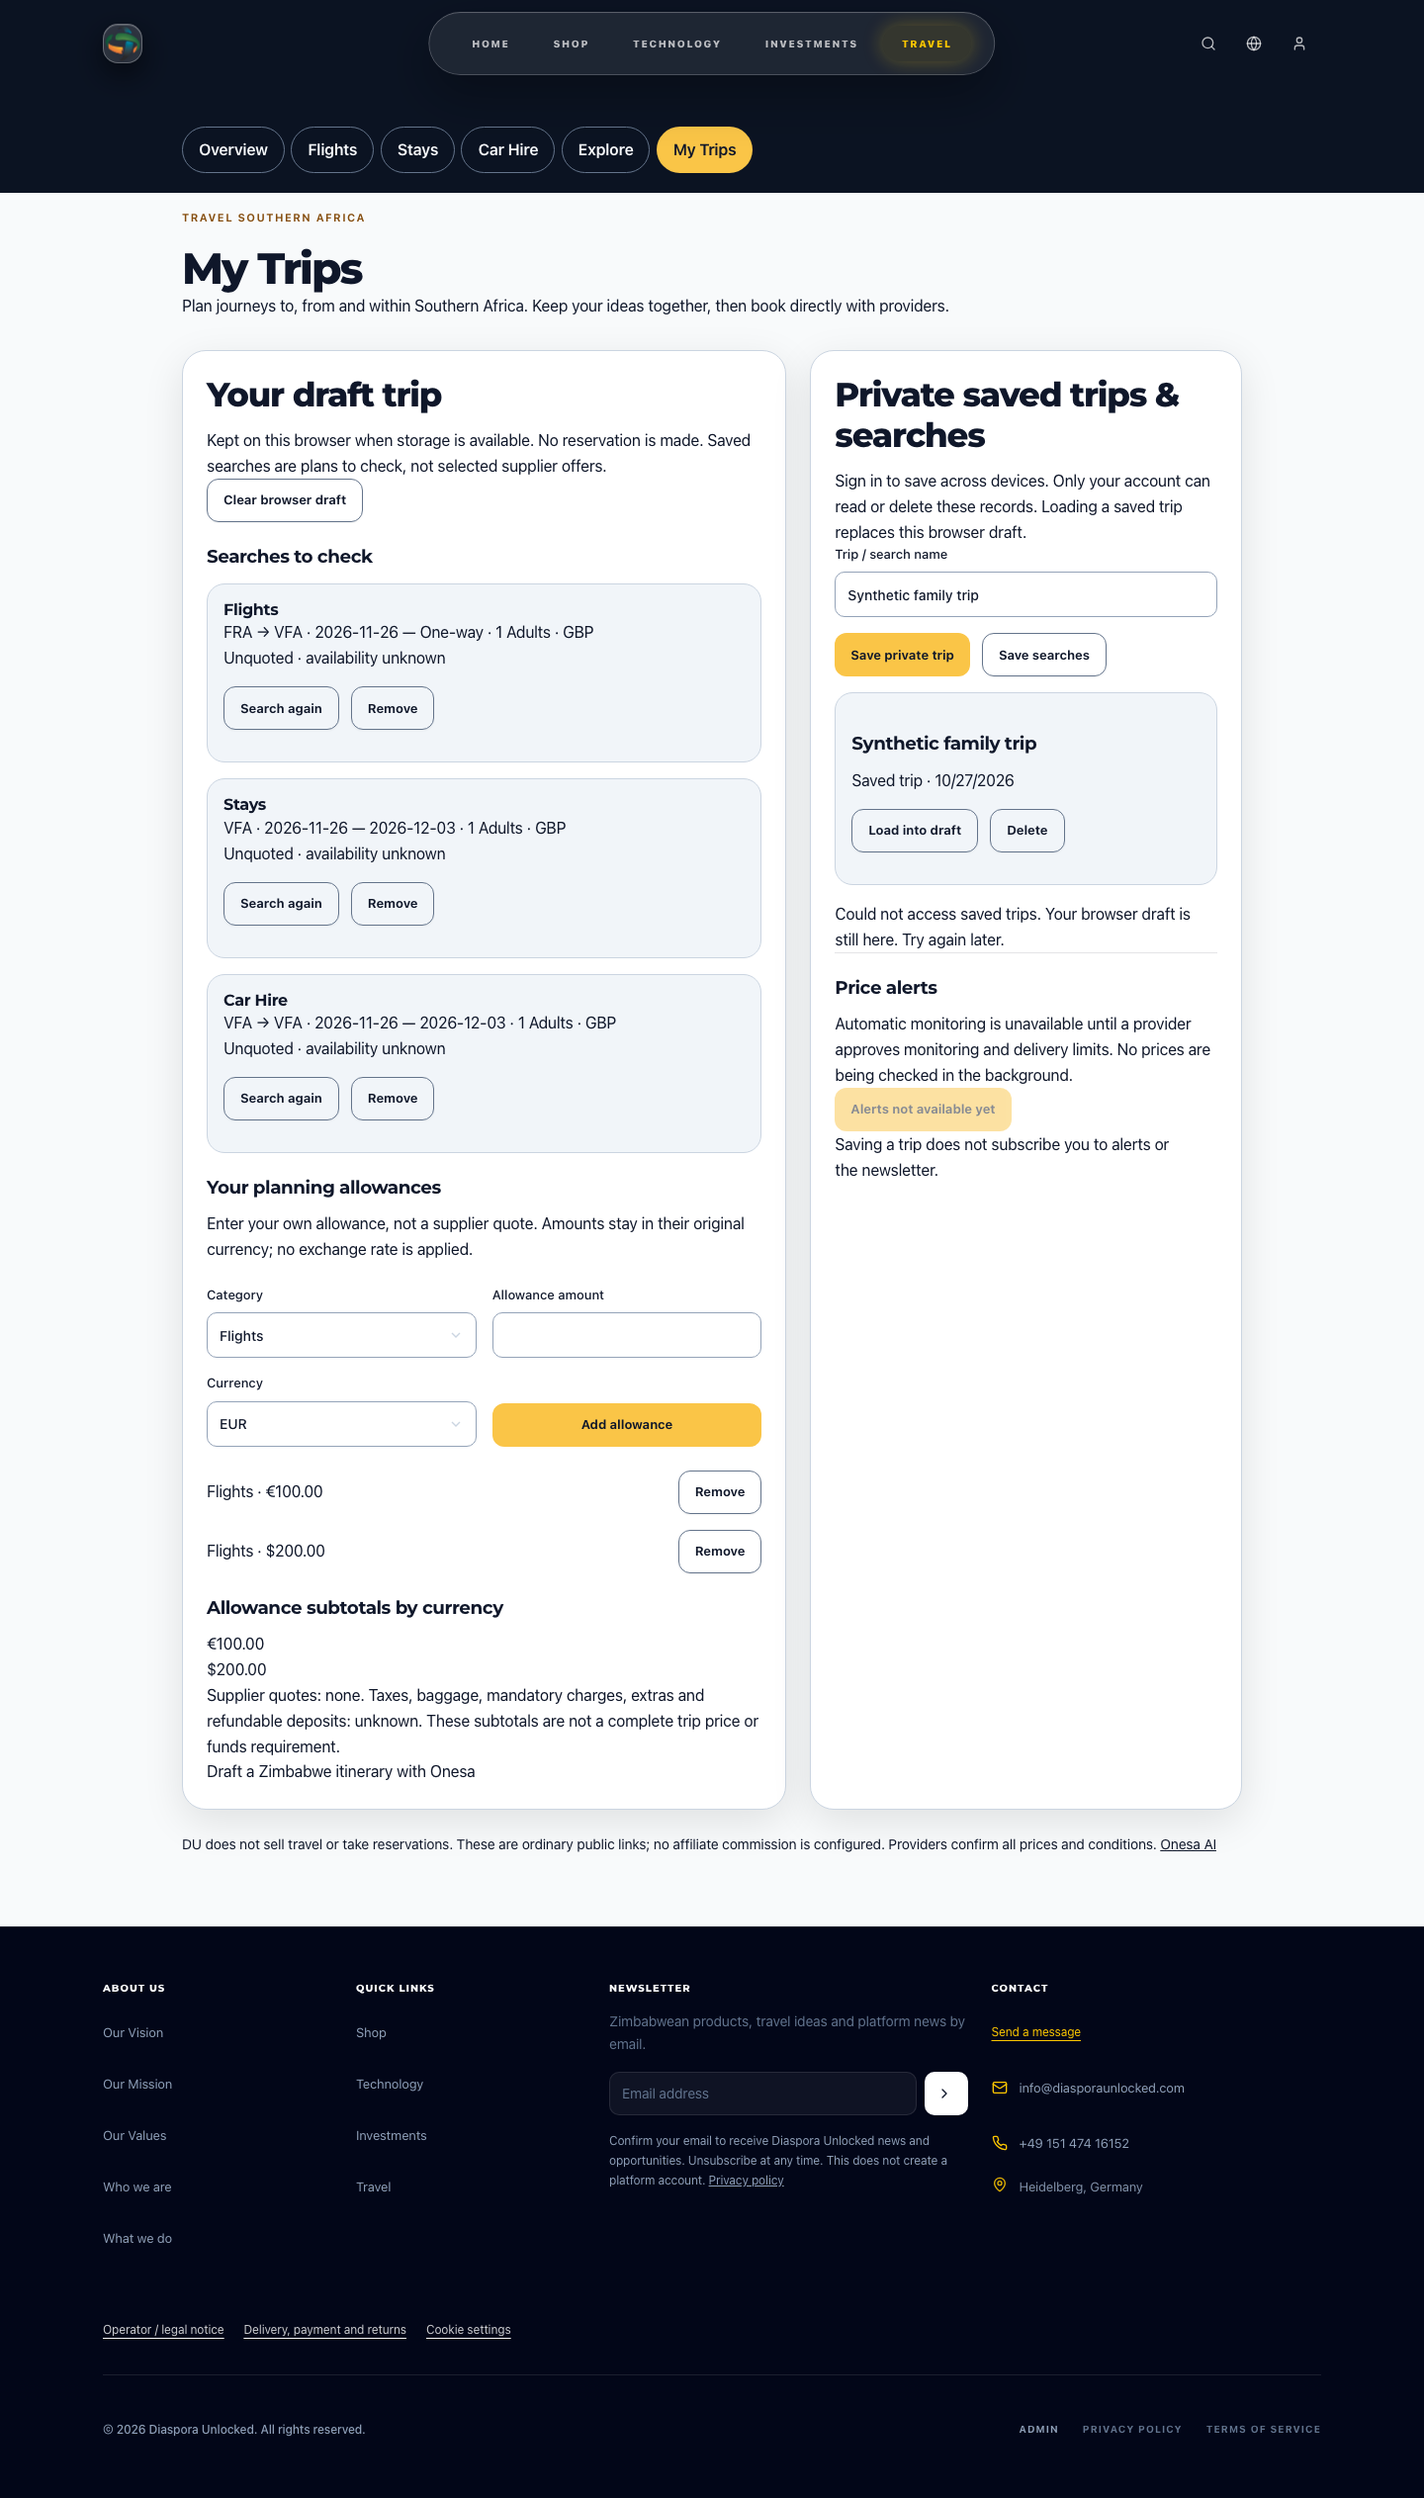
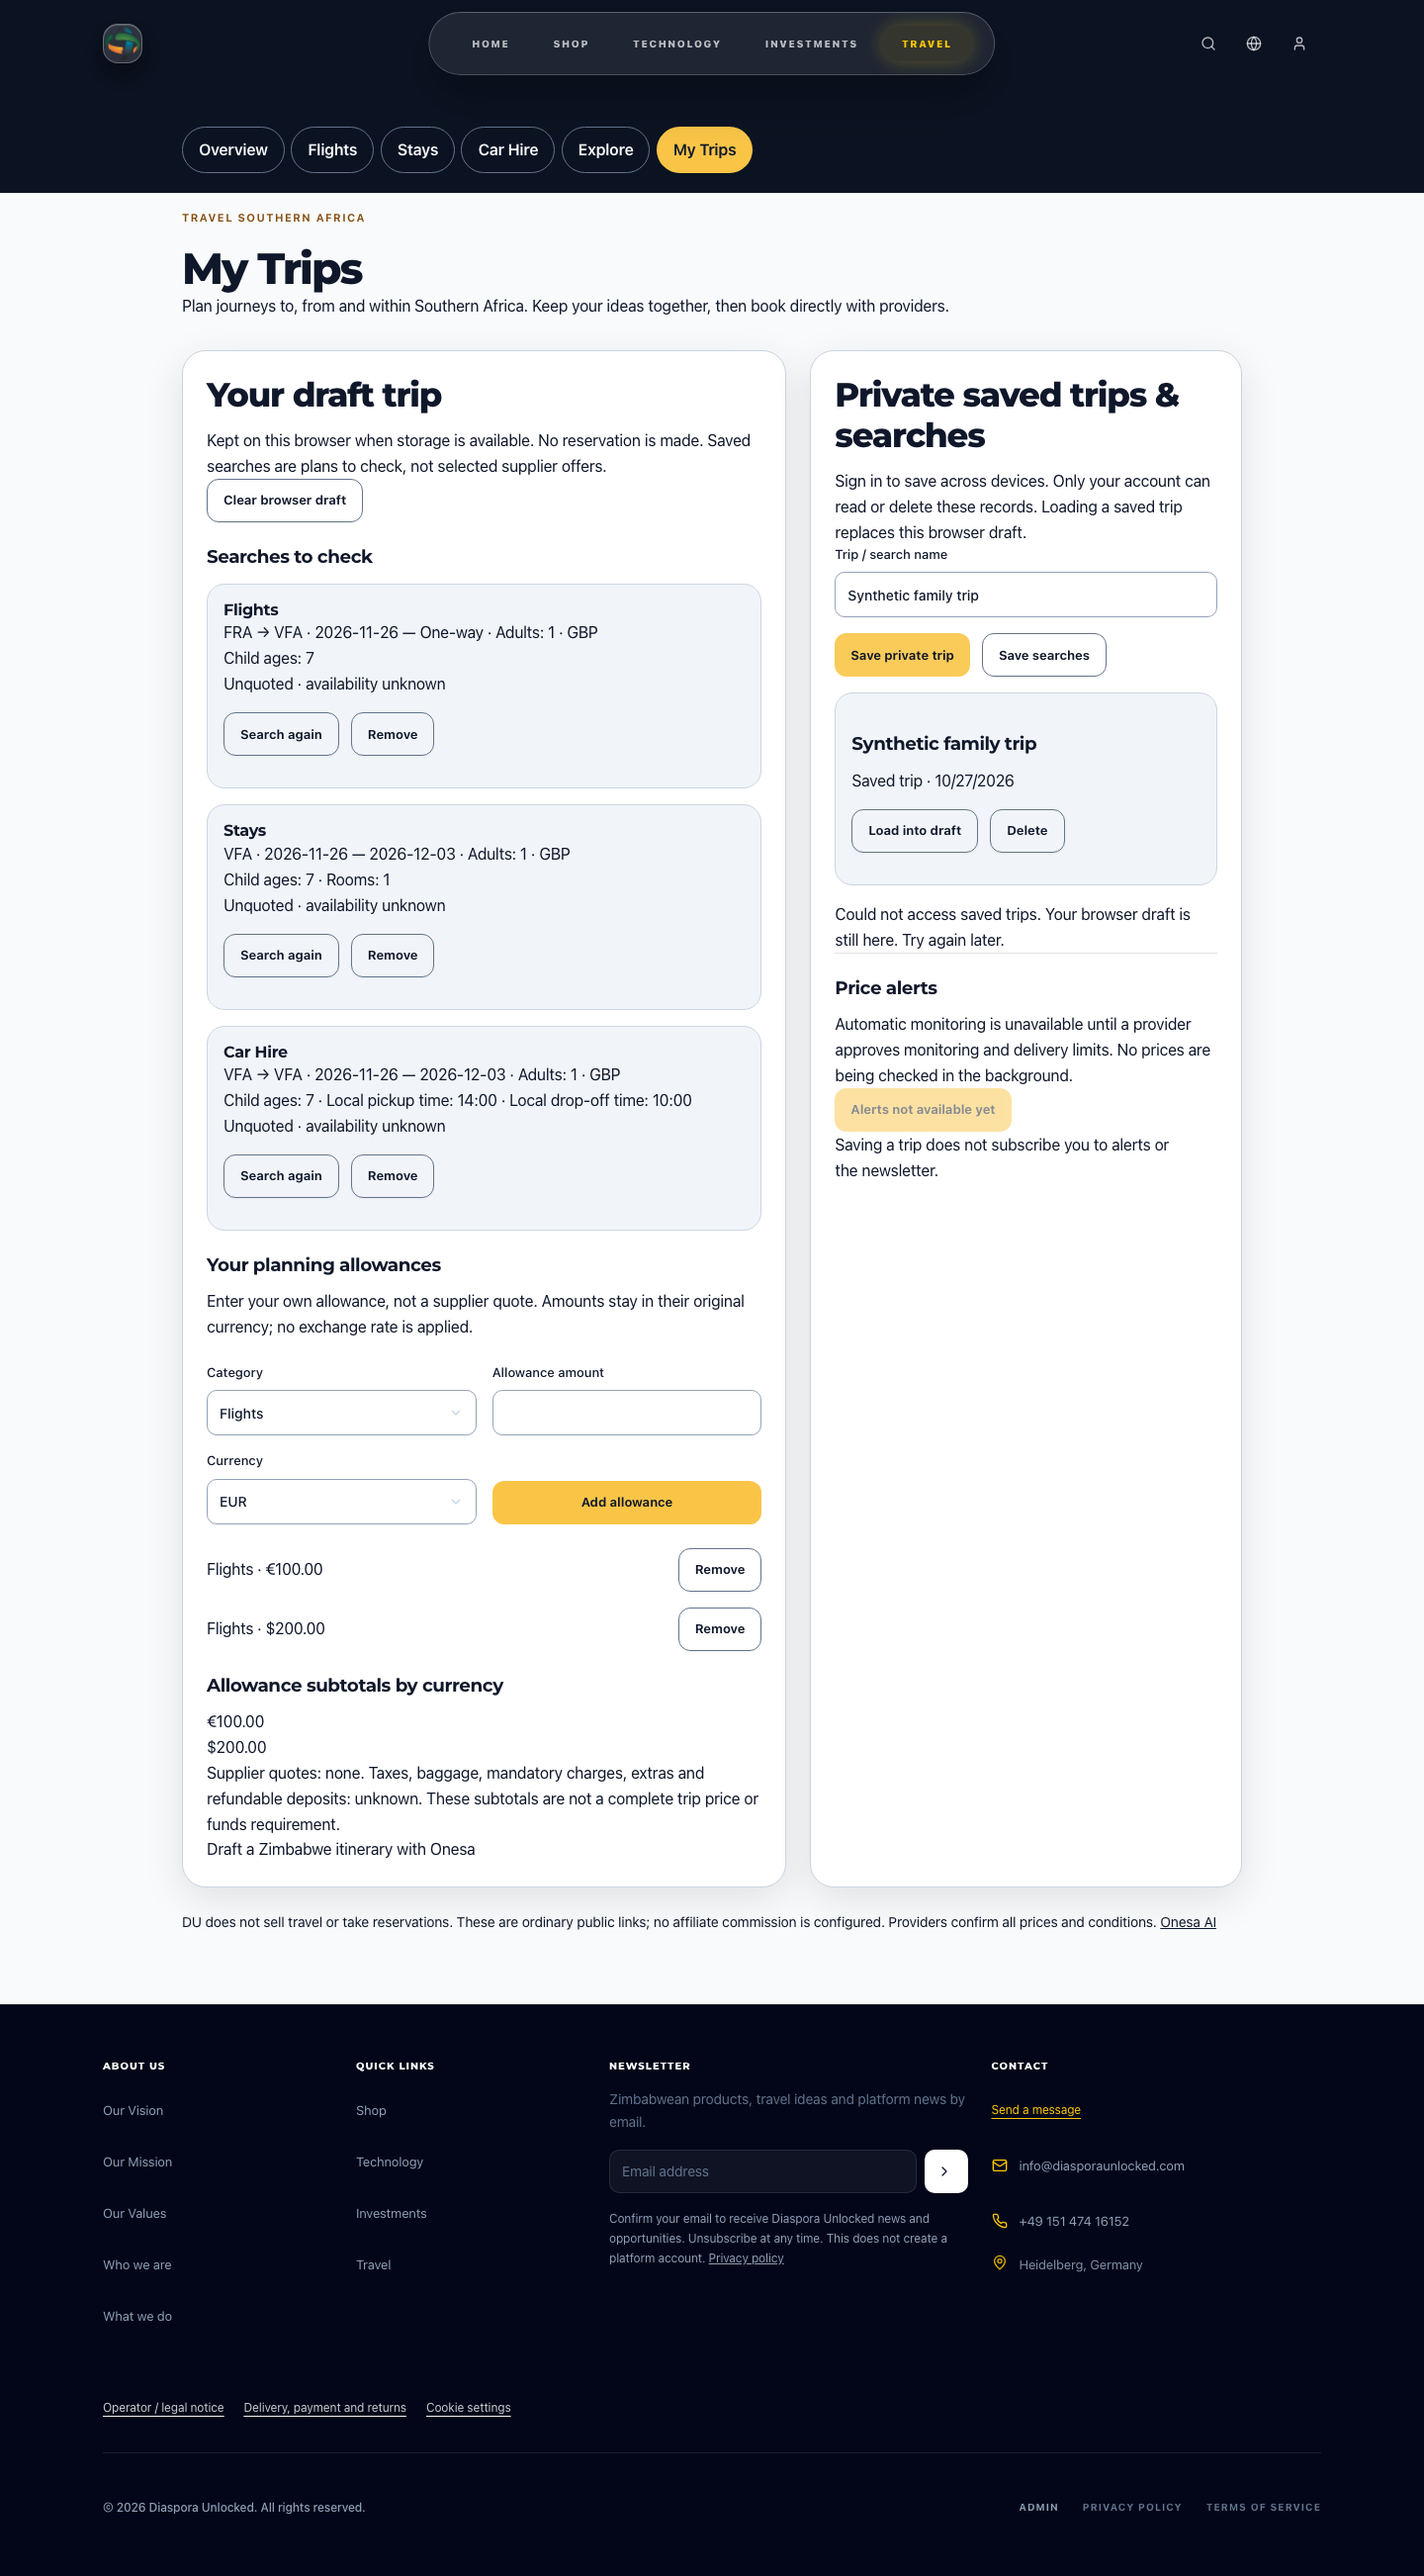
Show complete traveller and transport criteria in trip review

diff --git a/du-platform-frontend/src/modules/travel/MyTrips.tsx b/du-platform-frontend/src/modules/travel/MyTrips.tsx
@@ -140,7 +140,24 @@ export default function MyTrips() {
               {s.category === "flights" && s.criteria.tripType === "one-way"
                 ? t("travel.one-way")
                 : s.criteria.returnDate || "—"}{" "}
-              · {s.criteria.adults} {t("travel.adults")} · {s.criteria.currency}
+              · {t("travel.adults")}: {s.criteria.adults} ·{" "}
+              {s.criteria.currency}
+            </p>
+            <p>
+              {t("travel.child-ages")}: {s.criteria.childAges.join(", ") || "—"}
+              {s.category === "stays" && (
+                <>
+                  {" "}
+                  · {t("travel.rooms")}: {s.criteria.rooms}
+                </>
+              )}
+              {s.category === "car-hire" && (
+                <>
+                  {" "}
+                  · {t("travel.pickup-time")}: {s.criteria.pickupTime} ·{" "}
+                  {t("travel.dropoff-time")}: {s.criteria.dropoffTime}
+                </>
+              )}
             </p>
             <p>{t("travel.unquoted")}</p>
             <div className="travel-actions">
